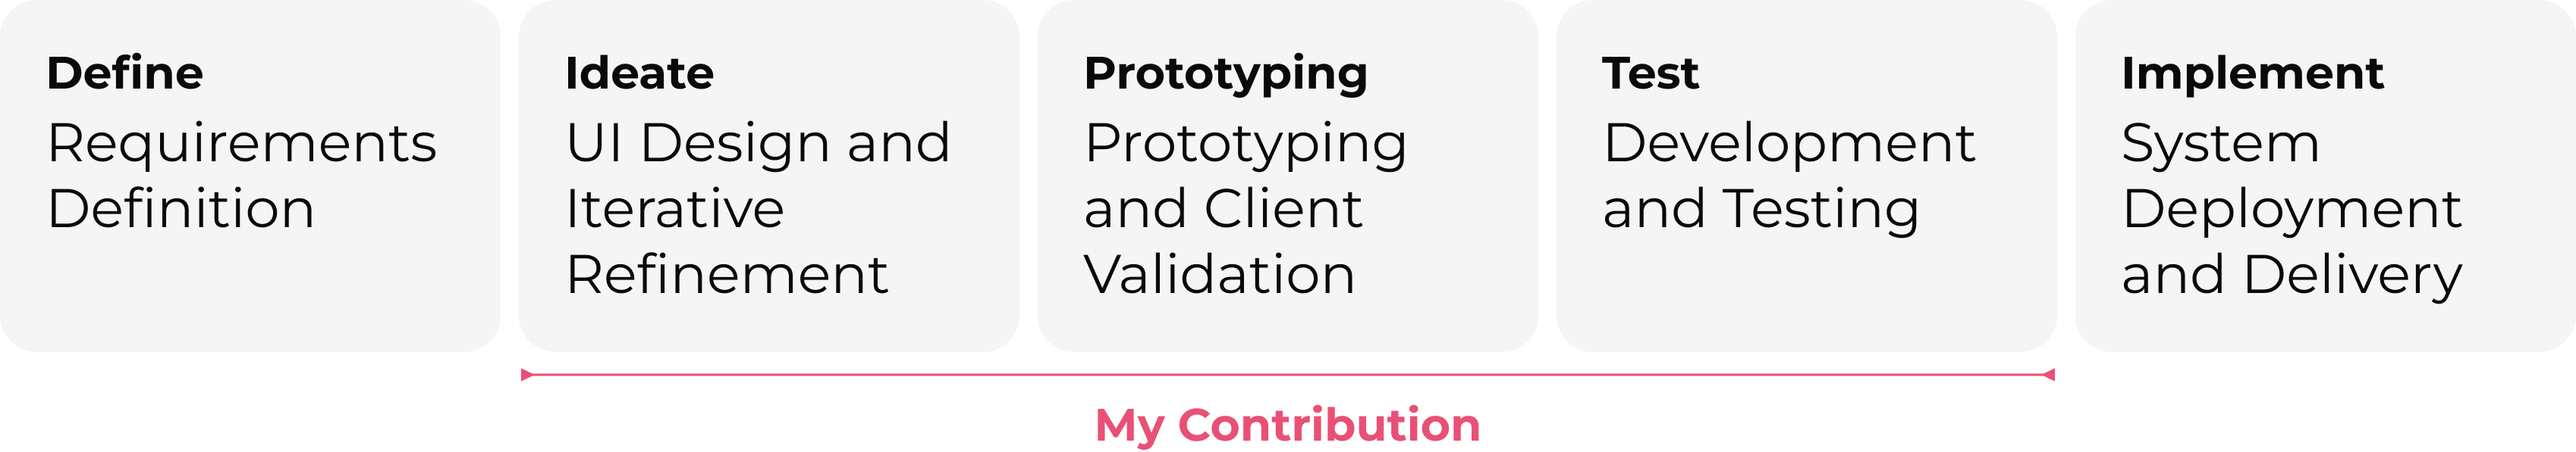
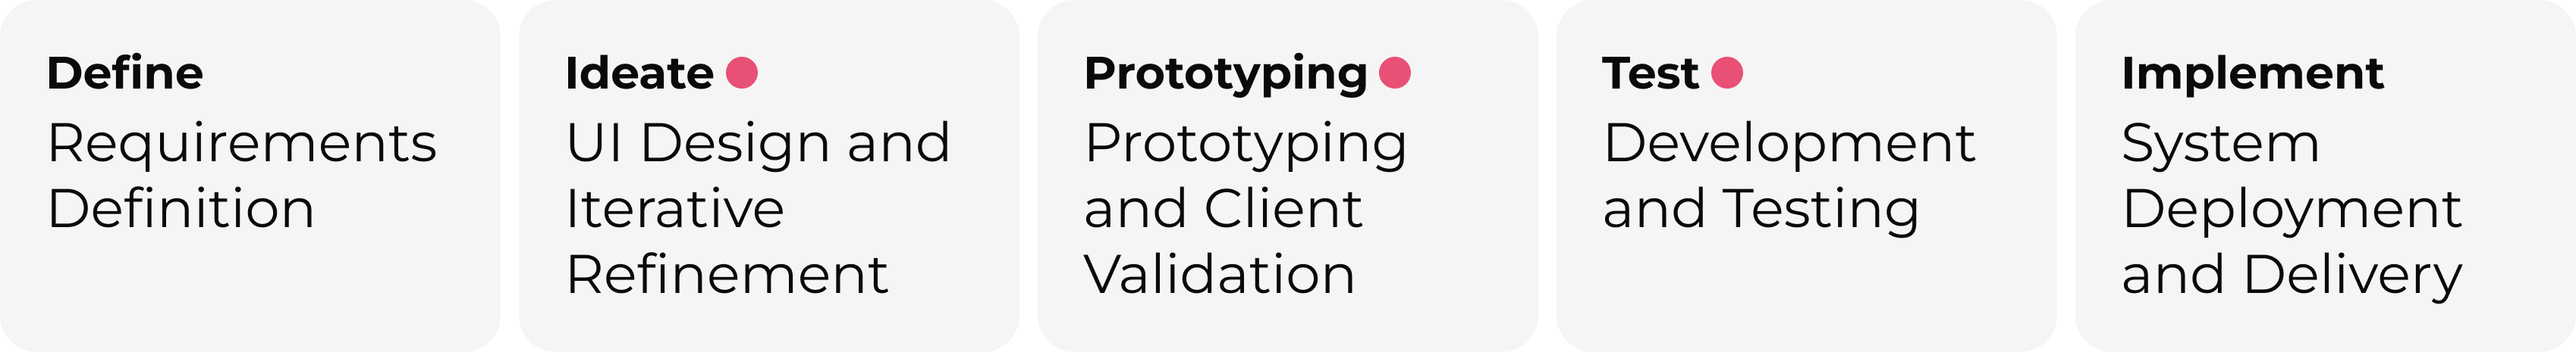
update

diff --git a/projects/1999.html b/projects/1999.html
@@ -3,7 +3,7 @@
   <head>
     <meta charset="utf-8" />
     <meta name="viewport" content="width=device-width, initial-scale=1" />
-    <title>Coral Tsai | 1999</title>
+    <title>Coral Tsai | 1999 Civic Insights</title>
     <link
       href="https://cdn.jsdelivr.net/npm/bootstrap@5.3.2/dist/css/bootstrap.min.css"
       rel="stylesheet"
@@ -218,7 +218,32 @@
             <div class="section-title">project process</div>
           </div>
           <div class="paragraph">
-            <!-- <div class="sub-title">My Contribution</div> -->
+            <div class="process-note">Steps I involved in</div>
+          </div>
+          <!-- <div class="paragraph">
+            <div class="process-note">Steps I involved in</div>
+            <div class="row process-img">
+              <div class="col-md">
+                <img src="/img/project/1999/Pendding/01-define.png" alt="" />
+              </div>
+              <div class="col-md">
+                <img src="/img/project/1999/Pendding/02-ideate.png" alt="" />
+              </div>
+              <div class="col-md">
+                <img
+                  src="/img/project/1999/Pendding/03-prototyping.png"
+                  alt=""
+                />
+              </div>
+              <div class="col-md">
+                <img src="/img/project/1999/Pendding/04-test.png" alt="" />
+              </div>
+              <div class="col-md">
+                <img src="/img/project/1999/Pendding/05-implement.png" alt="" />
+              </div>
+            </div>
+          </div> -->
+          <div class="paragraph">
             <img src="/img/project/1999/Pendding/project-process.png" alt="" />
           </div>
           <div class="paragraph team-member">
@@ -252,6 +277,25 @@
             </div>
             <div>
               <img src="/img/project/1999/Pendding/wireframe.png" alt="" />
+            </div>
+            <div class="challenge">
+              <div class="title">
+                <i class="ph-fill ph-lightning"></i>
+                Challenge
+              </div>
+              <div class="description">
+                Efficiently handing off the design to developers using only the
+                Figma file, while simultaneously balancing multiple ongoing
+                projects.
+              </div>
+              <div class="note">
+                To address this, I organized the Figma file with clear
+                annotations, structured components, and detailed design
+                specifications to minimize the need for frequent clarifications.
+                Additionally, I prioritized tasks and maintained open
+                communication with developers to ensure smooth progress across
+                all projects and quickly resolve any issues.
+              </div>
             </div>
           </div>
 
@@ -364,6 +408,25 @@
             <div class="sub-title">Style Guide</div>
             <div>
               <img src="/img/project/1999/Pendding/style-guide.png" alt="" />
+            </div>
+            <div class="challenge">
+              <div class="title">
+                <i class="ph-fill ph-lightning"></i>
+                Challenge
+              </div>
+              <div class="description">
+                Efficiently handing off the design to developers using only the
+                Figma file, while simultaneously balancing multiple ongoing
+                projects.
+              </div>
+              <div class="note">
+                To address this, I organized the Figma file with clear
+                annotations, structured components, and detailed design
+                specifications to minimize the need for frequent clarifications.
+                Additionally, I prioritized tasks and maintained open
+                communication with developers to ensure smooth progress across
+                all projects and quickly resolve any issues.
+              </div>
             </div>
           </div>
           <div class="paragraph">

diff --git a/css/sub-css/project-page/page-1999.css b/css/sub-css/project-page/page-1999.css
@@ -1,3 +1,4 @@
+@charset "UTF-8";
 body.page-1999 {
   background: #e95076;
   padding: 0;
@@ -110,6 +111,15 @@ body.page-1999 .work-container .section.approach {
 }
 body.page-1999 .work-container .section.understanding, body.page-1999 .work-container .section.reflection, body.page-1999 .work-container .section.process {
   background-color: #fafafa;
+}
+body.page-1999 .work-container .section.understanding .process-note, body.page-1999 .work-container .section.reflection .process-note, body.page-1999 .work-container .section.process .process-note {
+  color: #e95076;
+}
+body.page-1999 .work-container .section.understanding .process-note::before, body.page-1999 .work-container .section.reflection .process-note::before, body.page-1999 .work-container .section.process .process-note::before {
+  content: "● ";
+}
+body.page-1999 .work-container .section.understanding .process-img .col-md, body.page-1999 .work-container .section.reflection .process-img .col-md, body.page-1999 .work-container .section.process .process-img .col-md {
+  padding: 1rem;
 }
 body.page-1999 .work-container .section.understanding .team-member .row, body.page-1999 .work-container .section.reflection .team-member .row, body.page-1999 .work-container .section.process .team-member .row {
   gap: 20px;

diff --git a/css/style.css b/css/style.css
@@ -15,11 +15,12 @@
 @import url(/css/sub-css/project-page/page-scrum-game.css);
 @import url(/css/sub-css/project-page/page-fast-sign.css);
 @import url(/css/sub-css/project-page/thanks.css);
+@import url(/css/sub-css/project-page/challenge.css);
 @import url(/css/sub-css/project-page/page-on-going.css);
 @import "https://unpkg.com/open-props";
 html {
   scroll-behavior: smooth;
-  transition: 2s;
+  transition: 1s;
   font-size: 20px;
 }
 

diff --git a/css/sub-css/project-page/page-1999.scss b/css/sub-css/project-page/page-1999.scss
@@ -133,6 +133,18 @@ body.page-1999 {
       &.reflection,
       &.process {
         background-color: #fafafa;
+        .process-note {
+          color: $main;
+          &::before {
+            content: "● ";
+          }
+        }
+        .process-img {
+          // gap: 8px;
+          .col-md {
+            padding: 1rem;
+          }
+        }
         .team-member {
           .row {
             gap: 20px;

diff --git a/css/style.scss b/css/style.scss
@@ -19,12 +19,13 @@
 @import url(/css/sub-css/project-page/page-scrum-game.css);
 @import url(/css/sub-css/project-page/page-fast-sign.css);
 @import url(/css/sub-css/project-page/thanks.css);
+@import url(/css/sub-css/project-page/challenge.css);
 
 @import url(/css/sub-css/project-page/page-on-going.css);
 
 html {
   scroll-behavior: smooth;
-  transition: 2s;
+  transition: 1s;
   font-size: 20px;
 }
 body {

diff --git a/css/sub-css/project-page/challenge.css b/css/sub-css/project-page/challenge.css
@@ -1,0 +1,17 @@
+.challenge {
+  font-size: 0.8rem;
+  border: 1px solid #dc3645;
+  border-radius: 1rem;
+  padding: 1rem;
+  background-color: rgba(220, 54, 69, 0.062745098);
+  color: #dc3645;
+  margin: 1rem;
+}
+.challenge .description {
+  font-weight: 600;
+  margin-bottom: 0.6rem;
+}
+.challenge .title {
+  font-weight: 600;
+  margin-bottom: 0.6rem;
+}/*# sourceMappingURL=challenge.css.map */

diff --git a/css/sub-css/project-page/challenge.scss b/css/sub-css/project-page/challenge.scss
@@ -1,0 +1,18 @@
+.challenge {
+  font-size: 0.8rem;
+  border: 1px solid #dc3645;
+  border-radius: 1rem;
+  padding: 1rem;
+  background-color: #dc364510;
+  color: #dc3645;
+  margin: 1rem;
+  .description {
+    font-weight: 600;
+    margin-bottom: 0.6rem;
+  }
+  .title {
+    // font-size: 0.6rem;
+    font-weight: 600;
+    margin-bottom: 0.6rem;
+  }
+}

diff --git a/projects/classic-movie.html b/projects/classic-movie.html
@@ -3,7 +3,7 @@
   <head>
     <meta charset="utf-8" />
     <meta name="viewport" content="width=device-width, initial-scale=1" />
-    <title>Coral Tsai | 1999</title>
+    <title>Coral Tsai | 1:33 Classic Movie</title>
     <link
       href="https://cdn.jsdelivr.net/npm/bootstrap@5.3.2/dist/css/bootstrap.min.css"
       rel="stylesheet"

diff --git a/css/sub-css/project-page/project-page.scss b/css/sub-css/project-page/project-page.scss
@@ -58,6 +58,7 @@ a.backBtn {
   box-shadow: 0px 3px 30px rgba(0, 0, 0, 0.07);
   display: block;
   transition: bottom 0.5s;
+  z-index: 3;
   nav.container-fluid {
     width: 100%;
     padding-right: 15px;

diff --git a/css/sub-css/project-page/project-page.css b/css/sub-css/project-page/project-page.css
@@ -57,6 +57,7 @@ a.backBtn:hover {
   box-shadow: 0px 3px 30px rgba(0, 0, 0, 0.07);
   display: block;
   transition: bottom 0.5s;
+  z-index: 3;
 }
 .section-menu nav.container-fluid {
   width: 100%;
